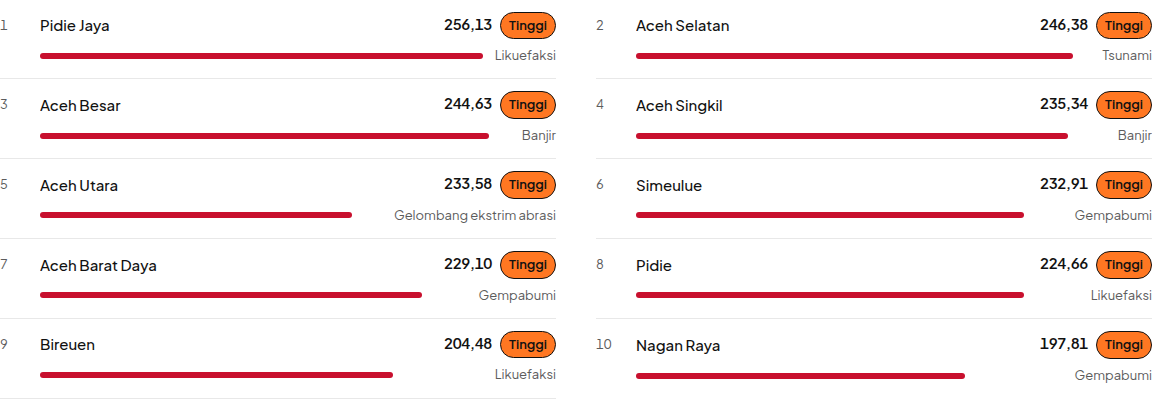
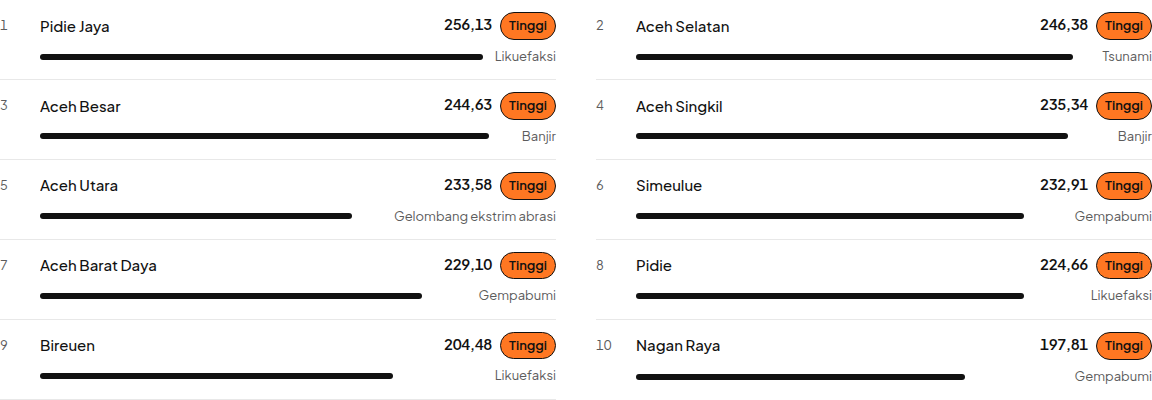
FE-67: paint the IRBI ranking bars in neutral ink
The ranking bars use --chart-bar-neutral (#111111 / #D4D4D4).
Kabupaten bars stay on --chart-bar, and the class chips keep the
map palette. The bar has no track.

diff --git a/src/lib/fe-67-visual-2.test.ts b/src/lib/fe-67-visual-2.test.ts
@@ -109,29 +109,48 @@ describe("FE-67 visual-2", () => {
     assert.match(workspace, /settingsOpen && "hidden"/);
   });
 
-  it("paints the kabupaten and IRBI bars with one brand red", () => {
+  it("paints kabupaten bars red and IRBI bars neutral ink", () => {
     const css = read("src/app/globals.css");
     const darkAt = css.indexOf('html[data-theme="dark"]');
     const light = css.slice(0, darkAt);
     const dark = css.slice(darkAt);
     assert.match(light, /--chart-bar:\s*#c8102e/);
     assert.match(dark, /--chart-bar:\s*#f25563/);
+    assert.match(light, /--chart-bar-neutral:\s*#111111/);
+    assert.match(dark, /--chart-bar-neutral:\s*#d4d4d4/);
     assert.ok(contrastRatio("#c8102e", "#ffffff") >= 3);
     assert.ok(contrastRatio("#c8102e", "#1a1a1a") < 3);
     assert.ok(contrastRatio("#f25563", "#1a1a1a") >= 3);
     assert.ok(contrastRatio("#f25563", "#0a0a0a") >= 3);
+    assert.ok(contrastRatio("#111111", "#ffffff") >= 3);
+    assert.ok(contrastRatio("#d4d4d4", "#1a1a1a") >= 3);
     const hero = read("src/components/beranda/DataHero.tsx");
     assert.match(hero, /className="bg-\[var\(--chart-bar\)\]"/);
-    assert.doesNotMatch(hero, /bg-\[var\(--chart-1\)\]|bg-\[var\(--chart-2\)\]/);
+    assert.doesNotMatch(hero, /bg-\[var\(--chart-1\)\]|bg-\[var\(--chart-2\)\]|chart-bar-neutral/);
     const format = read("src/components/beranda/format.ts");
-    assert.match(format, /return "bg-\[var\(--chart-bar\)\]"/);
+    assert.match(format, /return "bg-\[var\(--chart-bar-neutral\)\]"/);
+    assert.doesNotMatch(format, /return "bg-\[var\(--chart-bar\)\]"/);
     assert.match(format, /bg-\[#FF7722\]/);
     assert.match(format, /bg-\[#C4A35A\]/);
     assert.match(format, /bg-\[#1F4C15\]/);
     const ladder = read("src/components/beranda/RisikoLadder.tsx");
     assert.match(ladder, /kelasRisikoChip\(kab\.kelas_risiko\)/);
     assert.match(ladder, /kelasRisikoBar\(kab\.kelas_risiko\)/);
+    assert.match(ladder, /grid-cols-\[1\.75rem_1fr_auto\]/);
     assert.match(ladder, /text-\[var\(--text-dim\)\]/);
+    assert.doesNotMatch(ladder, /--chart-bar|#c8102e|#f25563/i);
+    const rail = read("src/components/beranda/primitives.tsx");
+    const barFn = rail.slice(rail.indexOf("export function Bar"));
+    assert.match(barFn, /<span className="block h-1\.5 w-full">/);
+    assert.doesNotMatch(barFn.slice(0, barFn.indexOf("rounded-full")), /bg-/);
+    const map = read("src/components/map/MapViewport.tsx");
+    assert.match(map, /tinggi: COLOR_TOKENS\.orange/);
+    assert.match(map, /sedang: COLOR_TOKENS\.gold/);
+    assert.match(map, /rendah: COLOR_TOKENS\.forest/);
+    const tokens = read("src/lib/layer-colors.ts");
+    assert.match(tokens, /orange: "#FF7722"/);
+    assert.match(tokens, /gold: "#C4A35A"/);
+    assert.match(tokens, /forest: "#1F4C15"/);
     const bars = read("src/components/beranda/YearBars.tsx");
     assert.match(bars, /var\(--chart-2\)/);
     assert.doesNotMatch(bars, /--chart-bar/);

diff --git a/src/app/globals.css b/src/app/globals.css
@@ -112,6 +112,7 @@ html[data-theme="light"] {
   --chart-surface: #ffffff;
   --chart-grid: #e8e8e8;
   --chart-bar: #c8102e;
+  --chart-bar-neutral: #111111;
 
   --hero-fg: #ffffff;
   --hero-muted: #ffffff;
@@ -228,6 +229,8 @@ html[data-theme="dark"],
   --chart-grid: #2a2a2a;
   /* #c8102e is 2.96:1 on --bg-raised (#1a1a1a). #f25563 clears 5.18:1. */
   --chart-bar: #f25563;
+  /* #d4d4d4 on #1a1a1a is 11.74:1. */
+  --chart-bar-neutral: #d4d4d4;
 
   --glass-bg: rgba(26, 26, 26, 0.94);
   --eyebrow: #f4d6db;

diff --git a/src/components/beranda/format.ts b/src/components/beranda/format.ts
@@ -188,8 +188,8 @@ export function kelasRisikoChip(kelas: string): string {
   return `${edge} bg-[#1F4C15] text-[#FFFFFF]`;
 }
 
-/** Length carries the count. Every bar is the brand red; the class stays on the chip. */
+/** Length carries the score. The bar is neutral ink; the class stays on the chip. */
 export function kelasRisikoBar(kelas: string): string {
   void kelas;
-  return "bg-[var(--chart-bar)]";
+  return "bg-[var(--chart-bar-neutral)]";
 }

diff --git a/docs/pengembangan/jurnal/FE-67.md b/docs/pengembangan/jurnal/FE-67.md
@@ -56,8 +56,10 @@ Tangkapan:
 - `fe-67/chart-kab-390-terang.png`
 - `fe-67/chart-irbi-1440-terang.png`
 - `fe-67/chart-irbi-1440-gelap.png`
+- `fe-67/chart-irbi-390-terang.png`
+- `fe-67/chart-irbi-390-gelap.png`
 
-Pita 1440 terang dan gelap, 390 terang dan gelap, serta varian kabupaten: latar `rgb(200, 16, 46)`, angka putih satu garis dasar (selisih 0px), catatan selisih 1px. Sparkline lima, Hilang tanpa svg. Batang kabupaten 23 baris satu warna: `#c8102e` terang, `#f25563` gelap. Peringkat IRBI memakai warna batang yang sama; chip oranye/emas/hijau tetap.
+Pita 1440 terang dan gelap, 390 terang dan gelap, serta varian kabupaten: latar `rgb(200, 16, 46)`, angka putih satu garis dasar (selisih 0px), catatan selisih 1px. Sparkline lima, Hilang tanpa svg. Batang kabupaten 23 baris satu warna: `#c8102e` terang, `#f25563` gelap. Peringkat IRBI tinta netral (`#111111` terang, `#d4d4d4` gelap); chip oranye/emas/hijau tetap.
 
 ## Bacaan ulang bukti versus kriteria
 
@@ -69,13 +71,13 @@ Pita 1440 terang dan gelap, 390 terang dan gelap, serta varian kabupaten: latar 
 - [x] Kartu undangan: tidak di bawah sm, sekali di desktop, tidak di halaman formulir/grafik, padding 5rem
 - [x] Tema bawaan tidak diubah
 - [x] Pita angka merah, enam angka satu garis dasar, catatan 13px rata
-- [x] Batang kabupaten dan peringkat IRBI satu merah; chip kelas tetap
+- [x] Batang kabupaten merah; peringkat IRBI tinta netral; chip kelas tetap
 
 ## Pita merah dan batang merah
 
 Pita angka menjadi permukaan merek: `--band-bg` `#c8102e` di terang dan gelap, teks `#ffffff` (5,88:1), label dan catatan `rgba(255,255,255,.85)` (komposit sekitar 4,53:1). Pembatas ubin `bg-white/20`. Garis atas tinta diganti `--band-rule` `#8e1224`. Label memakai kotak dua baris (`line-height: 1.25`, tinggi `calc(2 * 1.25 * var(--type-floor))`) supaya enam angka duduk di satu garis dasar. `leading-*` tidak dipakai karena `twMerge` menghapusnya di samping `text-[0.8125rem]`. Satuan dan awalan `Rp` rata dasar dengan angka dan memakai putih penuh, karena opasitas 65–70% jatuh di bawah 4,5:1. Catatan 13px di baris bawah, kotak tiga baris, rata atas. Di 390 kisi tetap 2 kolom dan ubin lebar merentang 2 kolom. Sparkline mengikuti `--band-fg` (putih), segmen putus tetap opasitas 0,55. Grafik batang 19 tahun tidak diubah.
 
-Batang kabupaten dan peringkat IRBI memakai `--chart-bar`: `#c8102e` di terang (5,88:1 di putih). Di gelap `#c8102e` hanya 2,96:1 pada `--bg-raised` `#1a1a1a`, jadi token gelap adalah `#f25563` (5,18:1 di sana, 5,90:1 di `--chart-surface` `#0a0a0a`). Chip kelas IRBI, label ancaman, dan pil ringkasan tetap.
+Batang kabupaten memakai `--chart-bar`: `#c8102e` di terang (5,88:1 di putih). Di gelap `#c8102e` hanya 2,96:1 pada `--bg-raised` `#1a1a1a`, jadi token gelap adalah `#f25563` (5,18:1 di sana, 5,90:1 di `--chart-surface` `#0a0a0a`). Peringkat IRBI memakai `--chart-bar-neutral`: `#111111` di terang (18,88:1 di putih) dan `#d4d4d4` di gelap (11,74:1 di `#1a1a1a`). Chip kelas IRBI, label ancaman, dan pil ringkasan tetap.
 
 ## Keputusan
 
